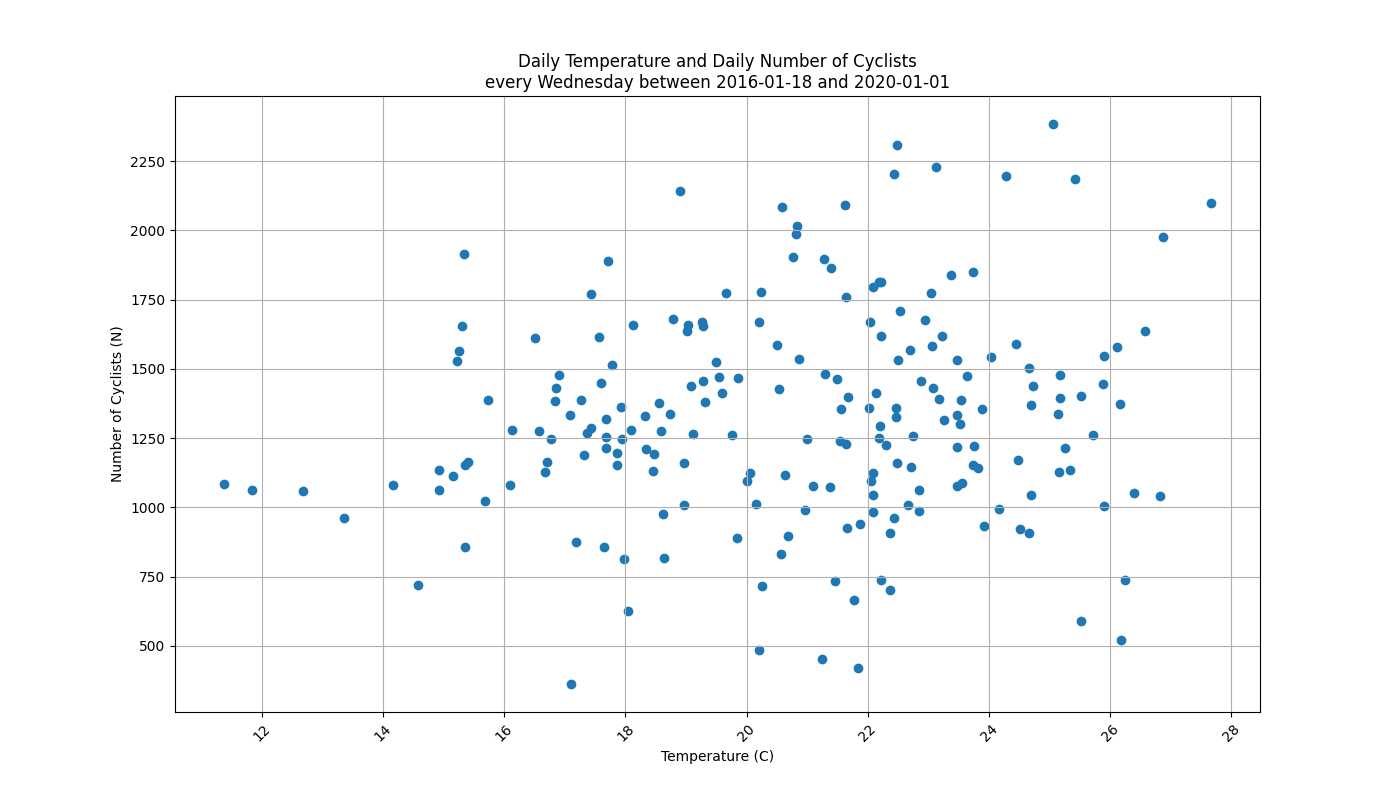
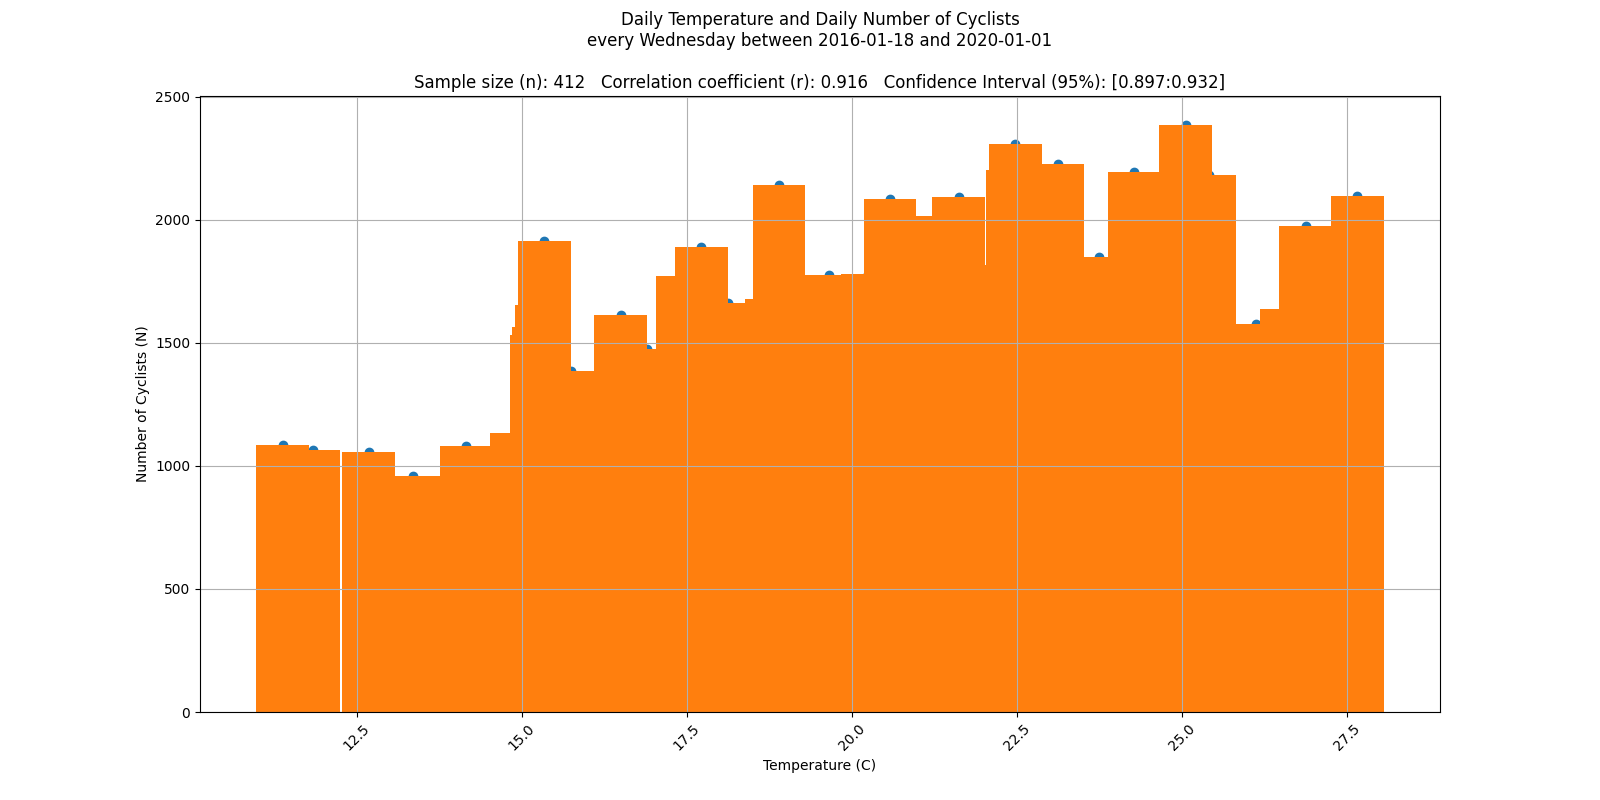
code

diff --git a/courses/experimental-design-in-computer-science/report-1/code.py b/courses/experimental-design-in-computer-science/report-1/code.py
@@ -1,6 +1,7 @@
 '''
 Importing libraries
 '''
+import math
 import pandas as pd
 import matplotlib.pyplot as plt
 from datetime import datetime
@@ -19,6 +20,7 @@ def findDay(test):
     return (calendar.day_name[born])
 
 
+
 # Date time conversion registration
 from pandas.plotting import register_matplotlib_converters
 register_matplotlib_converters()
@@ -26,6 +28,7 @@ pd.set_option('mode.chained_assignment', None)
 
 if(os.path.isdir("./barGraphs") == False):os.mkdir("./barGraphs")
 if(os.path.isdir("./lineGraphs") == False):os.mkdir("./lineGraphs")
+if(os.path.isdir("./scatterGraphs") == False):os.mkdir("./scatterGraphs")
 
 print ("*************************************************************")
 print ("Mascarenhas Alexandre")
@@ -40,7 +43,7 @@ Plota linha com selecao de dias da semana
 
 '''
 
-plt.rcParams['figure.figsize'] = (14, 8)
+plt.rcParams['figure.figsize'] = (16, 8)
 
 '''
 importing datasets
@@ -82,12 +85,15 @@ print ("   * 0 -> Everyday\n")
 
 dayWeek = int(input("Day: "))
 dayWeekStr = ["Everyday","Monday", "Tuesday", "Wednesday", "Thursday", "Friday", "Saturday", "Sunday"]
-
+'''
 print ("\n\nEnter the type of graph:")
 
-print ("   * 1 -> Line (Number of Cyclist and Temperature vs Date)")
-print ("   * 2 -> Bar  (Number of Cyclists vs Temperature)\n")
+
+print ("   * 1 -> Line     (Number of Cyclist and Temperature vs Date)")
+print ("   * 2 -> Bar      (Number of Cyclists vs Temperature)")
+print ("   * 3 -> Scatter  (Number of Cyclists vs Temperature)\n")
 typeGraph = int(input("Type: "))
+'''
 
 dayWeekInt = 0
 dayWeekInit = findDay(startDate)
@@ -131,61 +137,127 @@ if dayWeek != 0:
 	newData['Pinheiros'] = newBikers
 	newData.set_index('Date', inplace = True)
 	print (newData)
-	ax1.set_title('Daily Temperature and Daily Number of Cyclists\nevery '+dayWeekStr[dayWeek]+' between '+startDate+' and '+endDate)
 
-	if (typeGraph == 1):
+	x = newData['Temperature']
+	y = newData['Pinheiros']
 
-		ax1.set_xlabel("Date")
-		ax1.set_ylabel("Number of Cyclists (N)")
-		ax1.tick_params(axis='x', labelrotation=45)
-		ax1.set_xlim(data.index[0], data.index[-1])
+	a = 0.05
+	cI = 1 - a/2
 
-		plot1 = ax1.plot(newData.index, newData['Pinheiros'].values, 'g', label="Number of Cyclists towards Pinheiros (N)")
-		ax2 = ax1.twinx()
-		ax2.set_ylabel("Temperature (C)")
-		plot2 = ax2.plot(newData.index, newData['Temperature'].values, 'r', label="Average Temperature (C)")
+	xy = x*y
+	x2 = x*x
+	y2 = y*y
+	Sx = x.sum()
+	Sy = y.sum()
+	N = newData.size
 
-		lns = plot1 + plot2
-		labels = [l.get_label() for l in lns]
-		plt.legend(lns, labels, loc=0)
-		date_form = DateFormatter("%b %y")
-		ax1.xaxis.set_major_formatter(date_form)
-		ax1.xaxis.set_major_locator(mdates.MonthLocator(interval=1))
-		plt.savefig(f'./lineGraphs/Bikers-Temp_x_Date-'+dayWeekStr[dayWeek]+'-'+startDate+'-'+endDate+'.png', format='png')
-	elif (typeGraph == 2):
-		ax1.set_xlabel("Temperature (C)")
-		ax1.set_ylabel("Number of Cyclists (N)")
-		ax1.tick_params(axis='x', labelrotation=45)
-	#	plot1 = ax1.bar(newData['Temperature'].values, newData['Pinheiros'].values, label="Number of Cyclists towards Pinheiros (N)")
-		plot1 = ax1.scatter(newData['Temperature'].values, newData['Pinheiros'].values, label="Number of Cyclists towards Pinheiros (N)")
-		plt.savefig(f'./barGraphs/Bikers-Temp_x_Date-'+dayWeekStr[dayWeek]+'-'+startDate+'-'+endDate+'.png', format='png')
+	nom = N*((xy).sum()) - (Sx*Sy)
+	den = math.sqrt( (N*((x2).sum()) - (Sx*Sx)) * (N*((y2).sum()) - (Sy*Sy)) )
+	r =  nom/den
+
+	zR = 0.5*math.log( (1+r)/(1-r) )
+	zA = 0.5*math.log( (1+cI)/(1-cI) )
+	zL = zR - (zA)*(math.sqrt(1/(N-3)))
+	zU = zR + (zA)*(math.sqrt(1/(N-3)))
+	rL = (math.exp(2*zL) - 1)/(math.exp(2*zL) + 1)
+	rU = (math.exp(2*zU) - 1)/(math.exp(2*zU) + 1)
+
+	ax1.set_title(f'Daily Temperature and Daily Number of Cyclists\nevery {dayWeekStr[dayWeek]} between {startDate} and {endDate}\n\nSample size (n): {N}   Correlation coefficient (r): {r:.3f}   Confidence Interval (95%): [{rL:.3f}:{rU:.3f}]')
+
+	ax1.set_xlabel("Temperature (C)")
+	ax1.set_ylabel("Number of Cyclists (N)")
+	ax1.tick_params(axis='x', labelrotation=45)
+	plot1 = ax1.scatter(newData['Temperature'].values, newData['Pinheiros'].values, label="Number of Cyclists towards Pinheiros (N)")
+	plt.savefig(f'./scatterGraphs/Bikers-Temp_x_Date-'+dayWeekStr[dayWeek]+'-'+startDate+'-'+endDate+'.png', format='png')
+	plt.show()
+
+	ax1.set_xlabel("Temperature (C)")
+	ax1.set_ylabel("Number of Cyclists (N)")
+	ax1.tick_params(axis='x', labelrotation=45)
+	plot1 = ax1.bar(newData['Temperature'].values, newData['Pinheiros'].values, label="Number of Cyclists towards Pinheiros (N)")
+	plt.savefig(f'./barGraphs/Bikers-Temp_x_Date-'+dayWeekStr[dayWeek]+'-'+startDate+'-'+endDate+'.png', format='png')
+
+	ax1.set_xlabel("Date")
+	ax1.set_ylabel("Number of Cyclists (N)")
+	ax1.tick_params(axis='x', labelrotation=45)
+	ax1.set_xlim(data.index[0], data.index[-1])
+	plot1 = ax1.plot(newData.index, newData['Pinheiros'].values, 'g', label="Number of Cyclists towards Pinheiros (N)")
+	ax2 = ax1.twinx()
+	ax2.set_ylabel("Temperature (C)")
+	plot2 = ax2.plot(newData.index, newData['Temperature'].values, 'r', label="Average Temperature (C)")
+	lns = plot1 + plot2
+	labels = [l.get_label() for l in lns]
+	plt.legend(lns, labels, loc=0)
+	date_form = DateFormatter("%b %y")
+	ax1.xaxis.set_major_formatter(date_form)
+	ax1.xaxis.set_major_locator(mdates.MonthLocator(interval=1))
+	plt.savefig(f'./lineGraphs/Bikers-Temp_x_Date-'+dayWeekStr[dayWeek]+'-'+startDate+'-'+endDate+'.png', format='png')
 
 else:
-	ax1.set_title('Daily Temperature and Daily Number of Cyclists\neveryday between '+startDate+' and '+endDate)
 
-	if (typeGraph == 1):
-		ax1.set_xlabel("Date")
-		ax1.set_ylabel("Number of Cyclists (N)")
-		ax1.tick_params(axis='x', labelrotation=45)
-		ax1.set_xlim(data.index[0], data.index[-1])
+	print (data)
+	x = data['Temperature']
+	y = data['Pinheiros']
 
-		plot1 = ax1.plot(data.index, data['Pinheiros'].values, 'g', label="Number of Cyclists towards Pinheiros (N)")
-		ax2 = ax1.twinx()
-		ax2.set_ylabel("Temperature (C)")
-		plot2 = ax2.plot(data.index, data['Temperature'].values, 'r', label="Average Temperature (C)")
-		lns = plot1 + plot2
-		labels = [l.get_label() for l in lns]
-		plt.legend(lns, labels, loc=0)
-		date_form = DateFormatter("%b %y")
-		ax1.xaxis.set_major_formatter(date_form)
-		ax1.xaxis.set_major_locator(mdates.MonthLocator(interval=1))
-		plt.savefig(f'./barGraphs/Bikers-Temp_x_Date-Everyday-'+startDate+'-'+endDate+'.png', format='png')
-	elif (typeGraph == 2):
-		ax1.set_xlabel("Temperature (C)")
-		ax1.set_ylabel("Number of Cyclists (N)")
-		ax1.tick_params(axis='x', labelrotation=45)
-		plot1 = ax1.scatter(data['Temperature'].values, data['Pinheiros'].values, label="Number of Cyclists towards Pinheiros (N)")
-		plt.savefig(f'./lineGraphs/Bikers-Temp_x_Date-Everyday-'+startDate+'-'+endDate+'.png', format='png')
+	a = 0.05
+	cI = 1 - a/2
+
+	xy = x*y
+	x2 = x*x
+	y2 = y*y
+	Sx = x.sum()
+	Sy = y.sum()
+	N = data.size
+
+	nom = N*((xy).sum()) - (Sx*Sy)
+	den = math.sqrt( (N*((x2).sum()) - (Sx*Sx)) * (N*((y2).sum()) - (Sy*Sy)) )
+	r =  nom/den
+
+	zR = 0.5*math.log( (1+r)/(1-r) )
+	zA = 0.5*math.log( (1+cI)/(1-cI) )
+	zL = zR - (zA)*(math.sqrt(1/(N-3)))
+	zU = zR + (zA)*(math.sqrt(1/(N-3)))
+	rL = (math.exp(2*zL) - 1)/(math.exp(2*zL) + 1)
+	rU = (math.exp(2*zU) - 1)/(math.exp(2*zU) + 1)
+
+	ax1.set_title(f'Daily Temperature and Daily Number of Cyclists\neveryday between {startDate} and {endDate}\n\nSample size (n): {N}   Correlation coefficient (r): {r:.3f}   Confidence Interval (95%): [{rL:.3f}:{rU:.3f}]')
+
+	ax1.set_xlabel("Temperature (C)")
+	ax1.set_ylabel("Number of Cyclists (N)")
+	ax1.tick_params(axis='x', labelrotation=45)
+	plot1 = ax1.scatter(data['Temperature'].values, data['Pinheiros'].values, label="Number of Cyclists towards Pinheiros (N)")
+	plt.savefig(f'./scatterGraphs/Bikers-Temp_x_Date-Everyday-'+startDate+'-'+endDate+'.png', format='png')
+	plt.show()
+
+	ax1.set_xlabel("Temperature (C)")
+	ax1.set_ylabel("Number of Cyclists (N)")
+	ax1.tick_params(axis='x', labelrotation=45)
+	plot1 = ax1.bar(data['Temperature'].values, data['Pinheiros'].values, label="Number of Cyclists towards Pinheiros (N)")
+	plt.savefig(f'./barGraphs/Bikers-Temp_x_Date-Everyday-'+startDate+'-'+endDate+'.png', format='png')
+
+	ax1.set_xlabel("Date")
+	ax1.set_ylabel("Number of Cyclists (N)")
+	ax1.tick_params(axis='x', labelrotation=45)
+	ax1.set_xlim(data.index[0], data.index[-1])
+	plot1 = ax1.plot(data.index, data['Pinheiros'].values, 'g', label="Number of Cyclists towards Pinheiros (N)")
+	ax2 = ax1.twinx()
+	ax2.set_ylabel("Temperature (C)")
+	plot2 = ax2.plot(data.index, data['Temperature'].values, 'r', label="Average Temperature (C)")
+	lns = plot1 + plot2
+	labels = [l.get_label() for l in lns]
+	plt.legend(lns, labels, loc=0)
+	date_form = DateFormatter("%b %y")
+	ax1.xaxis.set_major_formatter(date_form)
+	ax1.xaxis.set_major_locator(mdates.MonthLocator(interval=1))
+	plt.savefig(f'./lineGraphs/Bikers-Temp_x_Date-Everyday-'+startDate+'-'+endDate+'.png', format='png')
+
+
+print ("\n*************************************")
+print ("Statistical points\n")
+print (f"Sample size (n): {N}")
+print (f"Correlation coefficient (r): {r:.3f}")
+print (f"Confidence Interval (95%): [{rL:.3f}:{rU:.3f}]")
+print ("*************************************\n")
 
 plt.show()
 
